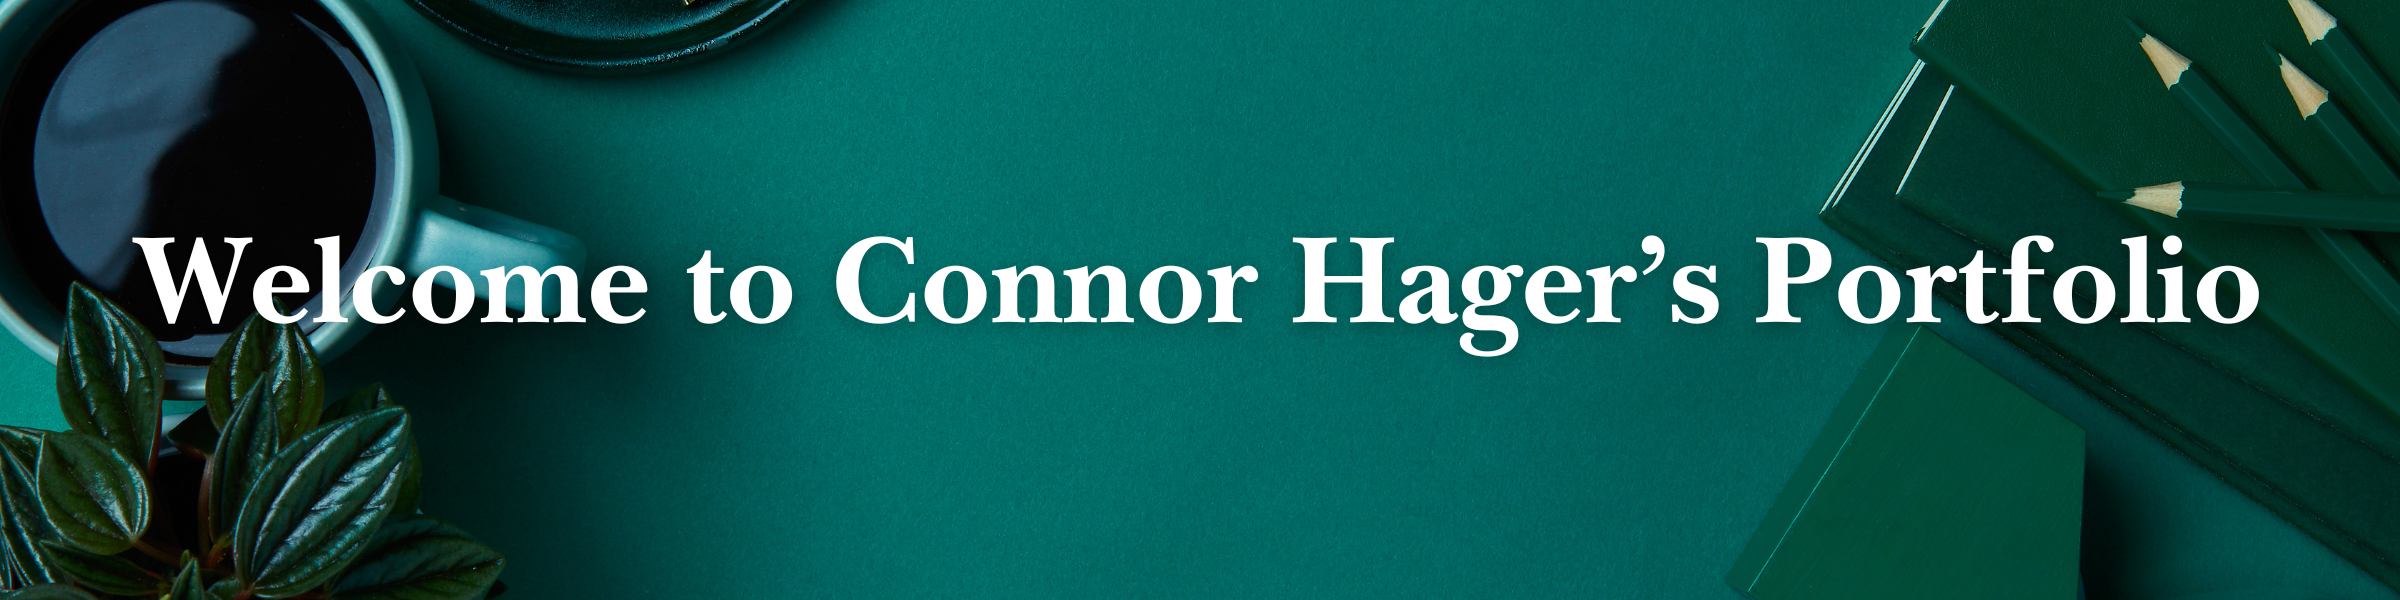
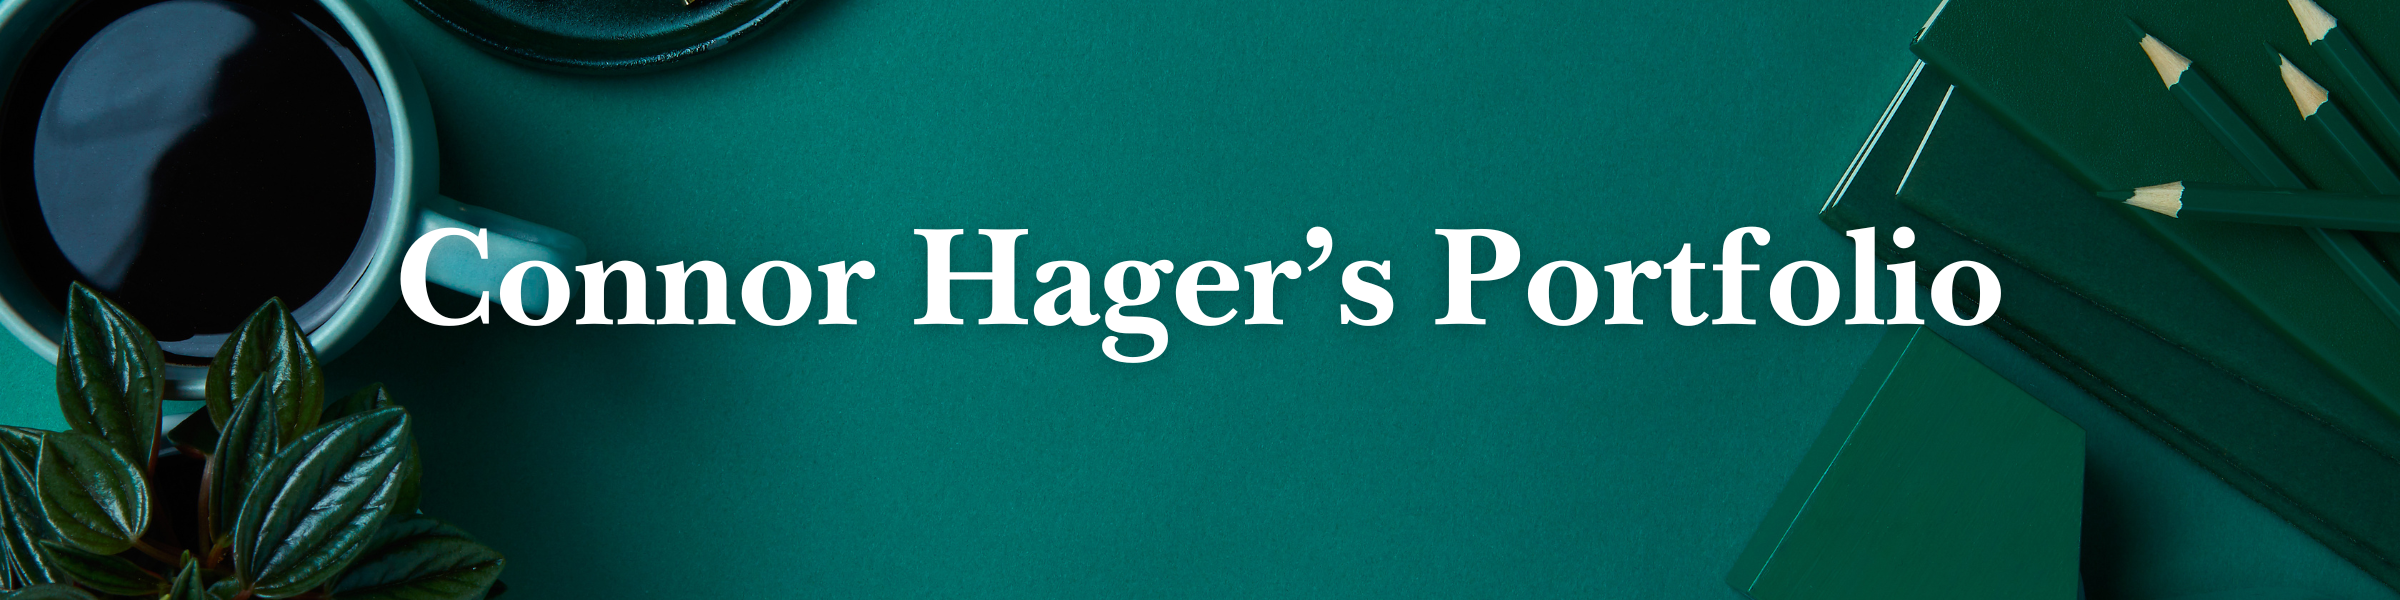
Updated header and some language -12/20

Changed region(s): [[0.0312, 0.36, 0.9688, 0.6]]

diff --git a/webdesign.html b/webdesign.html
@@ -102,7 +102,7 @@
                 <p>
                     Simultaneously with my HTML and CSS course, I enrolled in a JavaScript class during Fall 2023 to further my web development skills. 
                     Our first project was instrumental in teaching me the implementation of Event Listeners, such as enabling the code to respond dynamically 
-                    when buttons are clicked. Additionally, I gained proficiency in defining object placement on a website based on pixels and learnt to draw 
+                    when buttons are clicked. Additionally, I gained proficiency in defining object placement on a website based on pixels and learned to draw 
                     SVG objects using the D3.js framework.
                 </p>
 
@@ -123,7 +123,7 @@
                 <h2>JavaScript & JSON</h2>
     
                 <p>
-                    For my final project in the JavaScript course, I used a variety of programming concepts that I learnt throughout the semester. 
+                    For my final project in the JavaScript course, I used a variety of programming concepts that I learned throughout the semester. 
                     The project features an original design built using conditional logic, loops, and defined function parameters in conjunction with 
                     the D3 framework. I also incorporated sort functionality for my data to enhance user interactivity and analytical capabilities.
                 </p>
@@ -220,7 +220,7 @@
                                 <p>
                                     Simultaneously with my HTML and CSS course, I enrolled in a JavaScript class during Fall 2023 to further my web development skills. 
                                     Our first project was instrumental in teaching me the implementation of Event Listeners, such as enabling the code to respond dynamically 
-                                    when buttons are clicked. Additionally, I gained proficiency in defining object placement on a website based on pixels and learnt to draw 
+                                    when buttons are clicked. Additionally, I gained proficiency in defining object placement on a website based on pixels and learned to draw 
                                     SVG objects using the D3.js framework.
                                 </p>
     
@@ -259,7 +259,7 @@
                                 <h2 class="left">JavaScript & JSON</h2>
     
                                 <p>
-                                    For my final project in the JavaScript course, I used a variety of programming concepts that I learnt throughout the semester. 
+                                    For my final project in the JavaScript course, I used a variety of programming concepts that I learned throughout the semester. 
                                     The project features an original design built using conditional logic, loops, and defined function parameters in conjunction with 
                                     the D3 framework. I also incorporated sort functionality for my data to enhance user interactivity and analytical capabilities.
                                 </p>

diff --git a/index.html b/index.html
@@ -51,16 +51,17 @@
                 <table class="tab-desk">
                     <tr>
                         <td>
-                            <img src="images/homephoto.jpg">
-                        </td>
-                    
-                        <td>
+                            <h2 class="left">Welcome to my website!</h2>
                             <p style="padding-right: 4%;">
                                 Here, you'll discover a collection of my projects and professional experiences in the realm of digital media and events. 
                                 I hope you find inspiration and insight into my skills and passion for creating engaging online experiences. 
                                 If you're interested in a collaboration or have exciting projects in mind, don't hesitate to reach out. 
                                 Let's embark on this digital journey together!
                             </p>
+                        </td>
+                    
+                        <td>
+                            <img src="images/homephoto.jpg">
                         </td>
                     </tr>
                 </table>

diff --git a/fullportfolio.html b/fullportfolio.html
@@ -1,7 +1,7 @@
 <!DOCTYPE html>
 <!--
 	Student Name: Connor Hager
-	File Name: template.html
+	File Name: fullportfolio.html
 -->	 
 
 <html lang="en">
